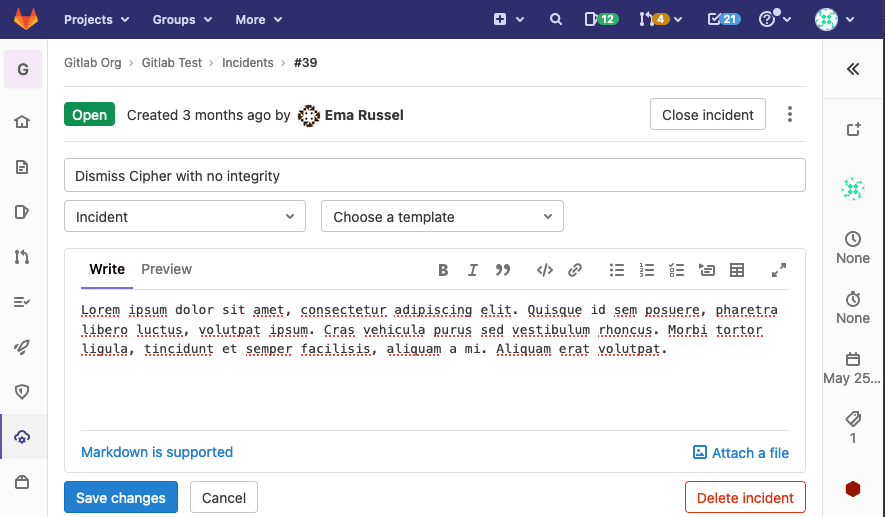
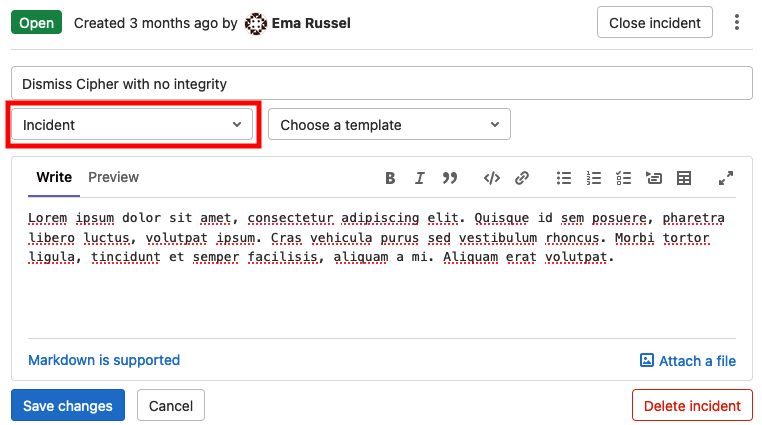
Edit issue type doc and image

diff --git a/doc/user/project/issues/managing_issues.md b/doc/user/project/issues/managing_issues.md
@@ -274,17 +274,16 @@ In order to change the default issue closing pattern, GitLab administrators must
 [`gitlab.rb` or `gitlab.yml` file](../../../administration/issue_closing_pattern.md)
 of your installation.
 
-## Changing issue type
+## Change the issue type
 
-Users with [developer permission](../../permissions.md) can change an issue type by
-editing it and selecting the **Issue type** from the dropdown provided.
+Users with [developer permission](../../permissions.md)
+can change an issue's type. To do this, edit the issue and select an issue type from the
+**Issue type** selector menu:
 
-![chnage issue type - dropdown](img/issue_type_change_v13_12.png)
+- [Issue](index.md)
+- [Incident](../../../operations/incident_management/index.md)
 
-The current choices are:
-
-1. [Issue](index.md)
-1. [Incident](../../../operations/incident_management/index.md)
+![Change the issue type](img/issue_type_change_v13_12.png)
 
 ## Deleting issues
 
